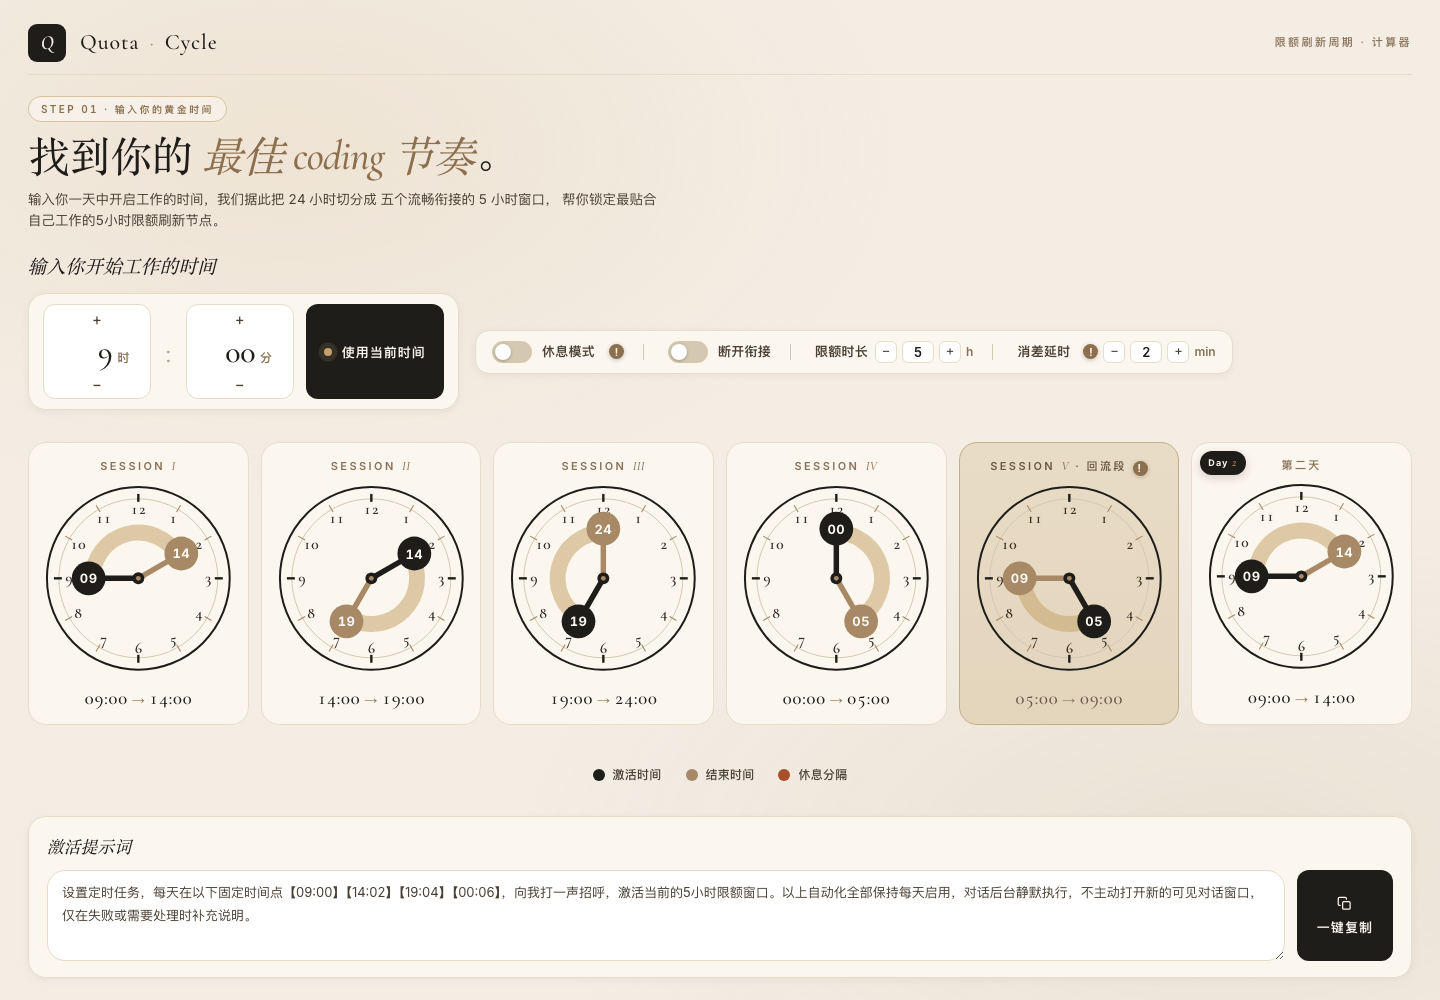
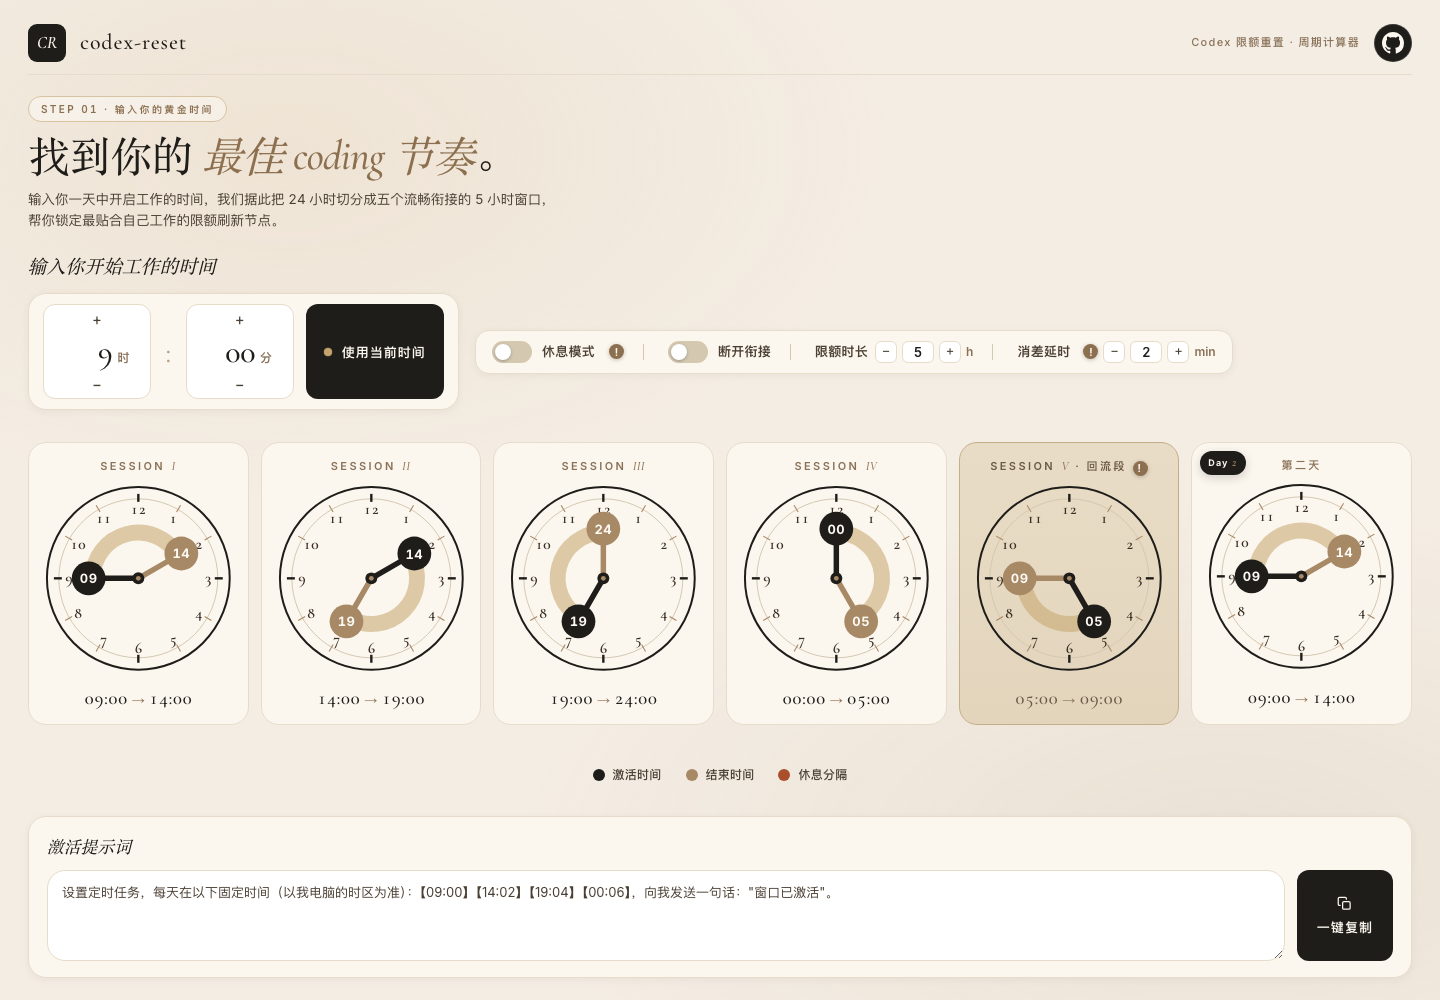
ui/docs: 右上角品牌改为 Codex 限额重置·周期计算器；提示词改为发送窗口已激活；README同步

diff --git a/index.html b/index.html
@@ -12,7 +12,7 @@
     href="https://fonts.googleapis.com/css2?family=Cormorant+Garamond:ital,wght@0,400;0,500;0,600;0,700;1,400;1,500;1,600&family=Inter:wght@400;500;600;700&display=swap"
     rel="stylesheet" data-page-node-id="XgEJqjF7CHdlqUTeLmSFKz"
   />
-  <link rel="stylesheet" href="style.css?v=20260916-1" data-page-node-id="SEc2WGgKp3Bwvdu6ot6eet" />
+  <link rel="stylesheet" href="style.css?v=20260916-2" data-page-node-id="SEc2WGgKp3Bwvdu6ot6eet" />
 </head>
 <body data-page-node-id="BvyzsV65CpfyDC8UYAb0Th">
   <div class="grain" data-page-node-id="ndyeUQfd2URQWfB5IMSrtS"></div>
@@ -24,7 +24,7 @@
         <span class="brand-name" data-page-node-id="zzXHAUhEr172gTuFDp31JH">codex-reset</span>
       </div>
       <div class="header-right" data-page-node-id="GhRight01">
-        <span class="brand-tag" data-page-node-id="MjdcxCg3pQKBqHP282MXuT">限额刷新周期 · 计算器</span>
+        <span class="brand-tag" data-page-node-id="MjdcxCg3pQKBqHP282MXuT">Codex 限额重置 · 周期计算器</span>
         <a class="github-link" href="https://github.com/quantong1990/codex-reset" target="_blank" rel="noopener" aria-label="在 GitHub 上查看源码" title="View source on GitHub">
           <svg class="github-icon" viewBox="0 0 16 16" width="22" height="22" aria-hidden="true">
             <path fill="currentColor" d="M8 0C3.58 0 0 3.58 0 8c0 3.54 2.29 6.53 5.47 7.59.4.07.55-.17.55-.38 0-.19-.01-.82-.01-1.49-2.01.37-2.53-.49-2.69-.94-.09-.23-.48-.94-.82-1.13-.28-.15-.68-.52-.01-.53.63-.01 1.08.58 1.23.82.72 1.21 1.87.87 2.33.66.07-.52.28-.87.51-1.07-1.78-.2-3.64-.89-3.64-3.95 0-.87.31-1.59.82-2.15-.08-.2-.36-1.02.08-2.12 0 0 .67-.21 2.2.82.64-.18 1.32-.27 2-.27.68 0 1.36.09 2 .27 1.53-1.04 2.2-.82 2.2-.82.44 1.1.16 1.92.08 2.12.51.56.82 1.27.82 2.15 0 3.07-1.87 3.75-3.65 3.95.29.25.54.73.54 1.48 0 1.07-.01 1.93-.01 2.2 0 .21.15.46.55.38A8.013 8.013 0 0 0 16 8c0-4.42-3.58-8-8-8z"></path>
@@ -147,6 +147,6 @@
     </section>
   </main>
 
-  <script src="app.js?v=20260907-3" defer></script>
+  <script src="app.js?v=20260916-2" defer></script>
 </body>
 </html>

diff --git a/app.js b/app.js
@@ -468,8 +468,7 @@ function activationTimes() {
 
 function buildPromptText() {
   const times = activationTimes().map(t => `【${formatMinShort(t)}】`).join('');
-  return `设置定时任务，每天在以下固定时间点${times}，向我打一声招呼，激活当前的${state.slotHours}小时限额窗口。` +
-    `以上自动化全部保持每天启用，对话后台静默执行，不主动打开新的可见对话窗口，仅在失败或需要处理时补充说明。`;
+  return `设置定时任务，每天在以下固定时间（以我电脑的时区为准）：${times}，向我发送一句话："窗口已激活"。`;
 }
 
 /* 用户手动改过文案后置为 dirty：之后时钟变化只原地替换【HH:MM】时间令牌，

diff --git a/test.js b/test.js
@@ -139,7 +139,7 @@ assert.deepStrictEqual(
 );
 assert.strictEqual(
   buildPromptText(),
-  '设置定时任务，每天在以下固定时间点【09:00】【14:02】【19:04】【00:06】，向我打一声招呼，激活当前的5小时限额窗口。以上自动化全部保持每天启用，对话后台静默执行，不主动打开新的可见对话窗口，仅在失败或需要处理时补充说明。',
+  '设置定时任务，每天在以下固定时间（以我电脑的时区为准）：【09:00】【14:02】【19:04】【00:06】，向我发送一句话："窗口已激活"。',
   '提示词全文不匹配'
 );
 assert.deepStrictEqual(staggeredTimes([540, 840], 0).map(formatMinShort), ['09:00', '14:00'], '延时 0 不偏移');

diff --git a/style.css b/style.css
@@ -108,8 +108,7 @@ body {
 
 .brand-tag {
   font-size: 11px;
-  text-transform: uppercase;
-  letter-spacing: 0.22em;
+  letter-spacing: 0.12em;
   color: var(--ink-muted);
   font-weight: 500;
 }

diff --git a/README_EN.md b/README_EN.md
@@ -51,7 +51,7 @@ Subscriptions for Agents like Codex and Claude Code are metered by **rolling 5-h
 With default 09:00 / 5h / stagger 2 min:
 
 ```
-设置定时任务，每天在以下固定时间点【09:00】【14:02】【19:04】【00:06】，向我打一声招呼，激活当前的5小时限额窗口。以上自动化全部保持每天启用，对话后台静默执行，不主动打开新的可见对话窗口，仅在失败或需要处理时补充说明。
+设置定时任务，每天在以下固定时间（以我电脑的时区为准）：【09:00】【14:02】【19:04】【00:06】，向我发送一句话："窗口已激活"。
 ```
 
 Set the stagger to 5 minutes and it becomes `【09:00】【14:05】【19:10】【00:15】` (see the 7:00 variant in the Use Case above).
